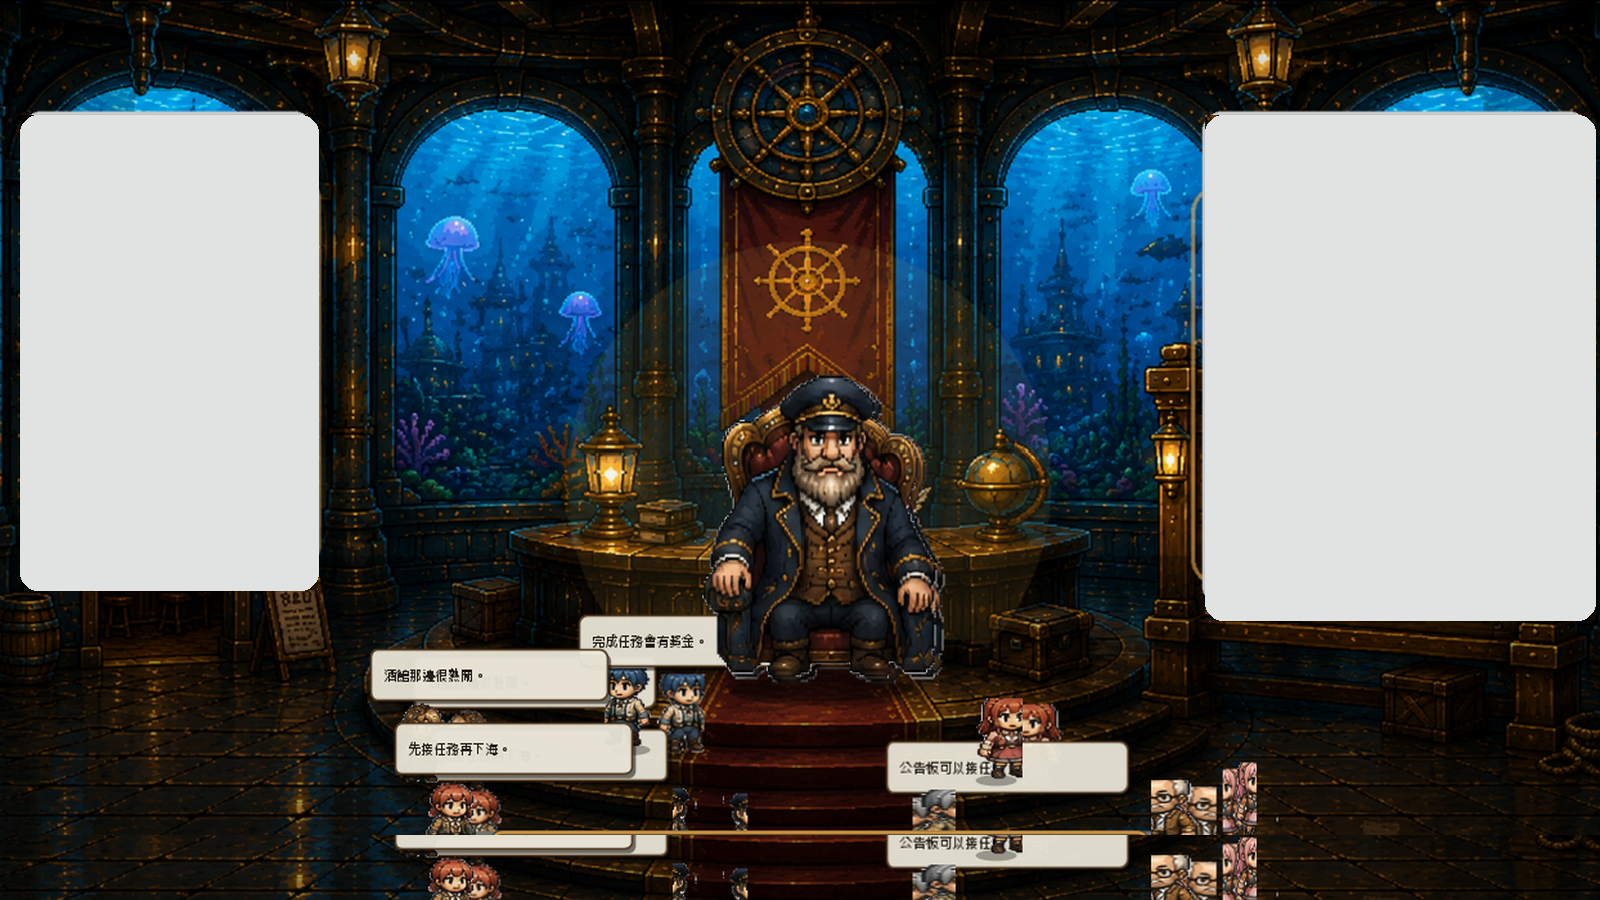
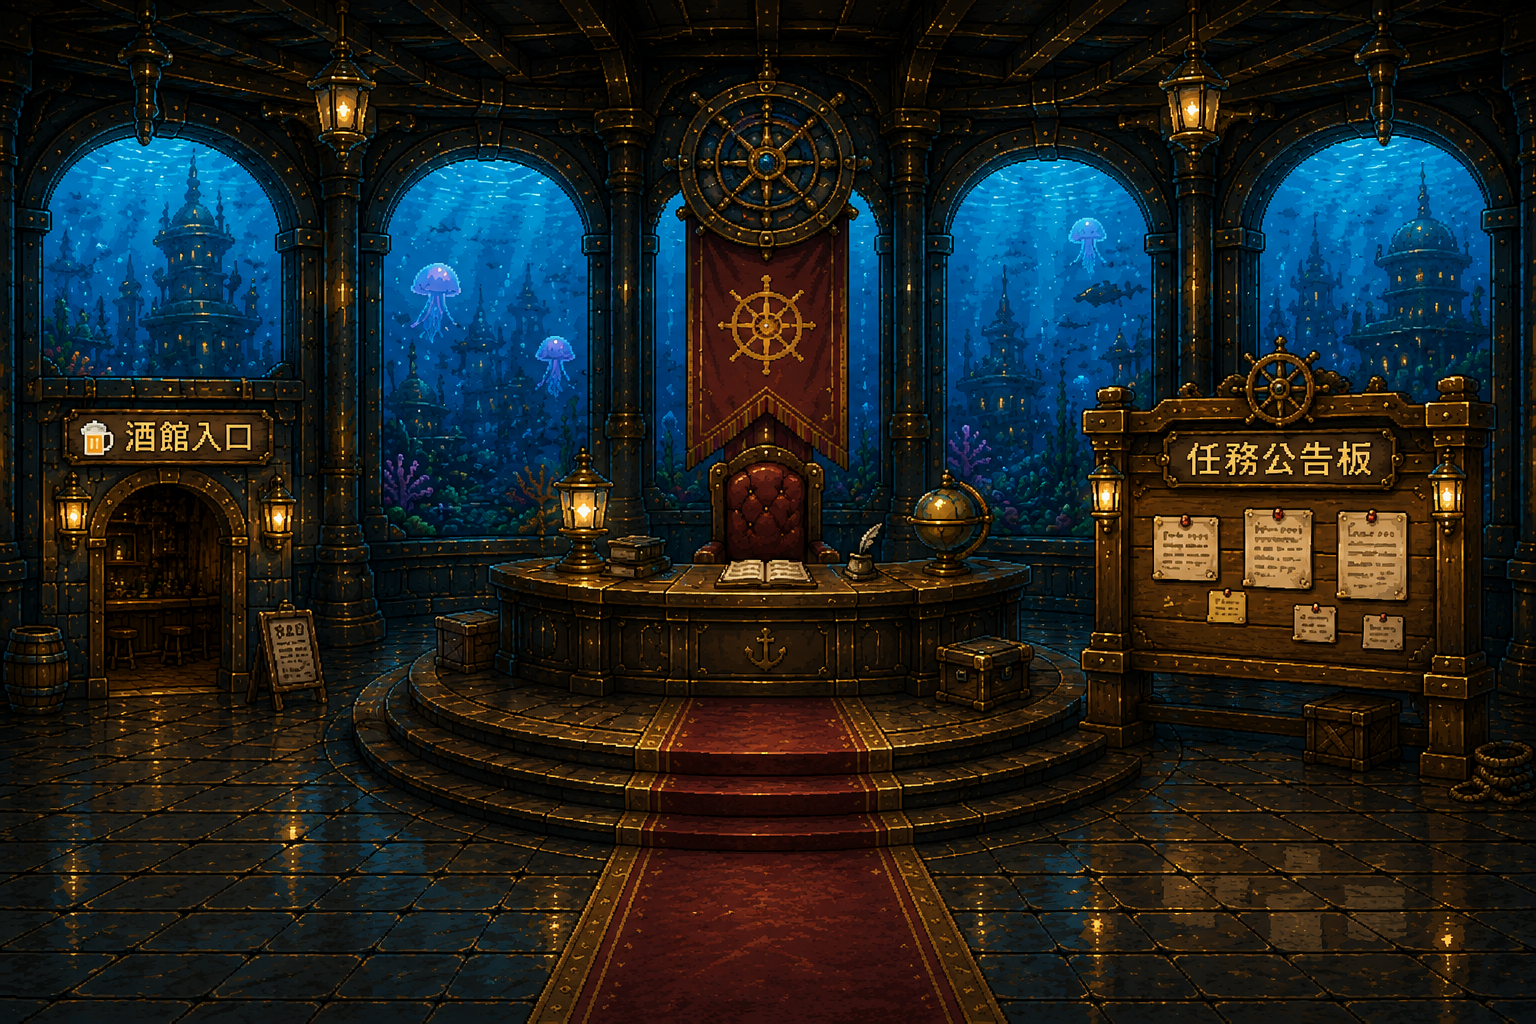
789

diff --git a/QuestHallView.java b/QuestHallView.java
@@ -30,9 +30,9 @@ public class QuestHallView extends JFrame {
         private int tick = 0;
 
         // 這三個 Rectangle 只是「隱形點擊區」，不會畫出框框。
-        private Rectangle tavernRect = new Rectangle(45, 250, 310, 360);
+        private Rectangle tavernRect = new Rectangle(35, 140, 310, 455);
         private Rectangle captainRect = new Rectangle(675, 342, 250, 292);
-        private Rectangle missionBoardRect = new Rectangle(1165, 230, 390, 390);
+        private Rectangle missionBoardRect = new Rectangle(1165, 135, 390, 480);
         private Rectangle closeRect = new Rectangle(1390, 785, 150, 54);
 
         private boolean nearCaptain = false;
@@ -163,8 +163,7 @@ public class QuestHallView extends JFrame {
         }
 
         private void drawHighlights(Graphics2D g2) {
-            // 不畫任何灰色面板、酒館框、任務框或標籤。
-            // 左右兩側只保留隱形點擊區，畫面完全交給底圖呈現。
+            // 不畫任何額外灰框或標籤；只保留底圖本身與隱形點擊區。
         }
 
         private void drawCaptain(Graphics2D g2) {
